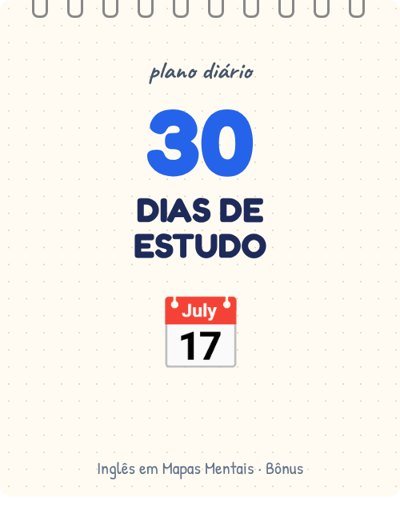
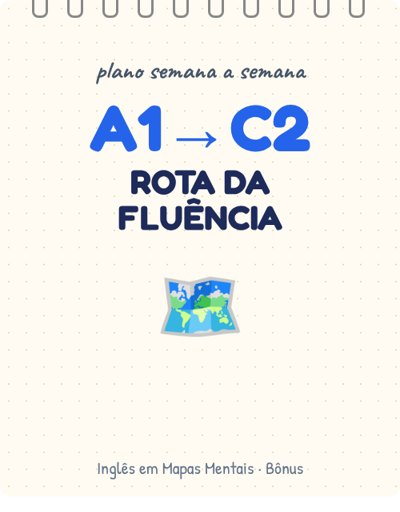
Atualiza para 310 mapas (A1–C2): novas imagens, níveis, bônus e textos
Claude-Session: https://claude.ai/code/session_01UXpBtZZCWjNV9Yxm8GNDxu

Changed region(s): [[0.21, 0.1875, 0.78, 0.7188], [0.24, 0.125, 0.78, 0.1562]]

diff --git a/index.html b/index.html
@@ -3,9 +3,9 @@
 <head>
 <meta charset="utf-8">
 <meta name="viewport" content="width=device-width, initial-scale=1">
-<title>Inglês em Mapas Mentais · 30 Mapas Mentais Imprimíveis</title>
-<meta name="description" content="30 mapas mentais de inglês em PDF, com a gramática explicada em português. Imprima ou estude no celular. Acesso imediato.">
-<meta property="og:title" content="Inglês em Mapas Mentais · 30 Mapas Imprimíveis">
+<title>Inglês em Mapas Mentais · +300 Mapas Mentais do A1 ao C2</title>
+<meta name="description" content="310 mapas mentais de inglês em PDF, do A1 ao C2, com a gramática explicada em português. Imprima ou estude no celular. Acesso imediato.">
+<meta property="og:title" content="Inglês em Mapas Mentais · +300 Mapas do A1 ao C2">
 <meta property="og:description" content="Aprenda e revise inglês de forma visual. PDF com acesso imediato.">
 <link rel="preconnect" href="https://fonts.googleapis.com"><link rel="preconnect" href="https://fonts.gstatic.com" crossorigin>
 <link href="https://fonts.googleapis.com/css2?family=Inter:wght@400;500;600&family=Poppins:wght@600;700;800&display=swap" rel="stylesheet">
@@ -147,8 +147,8 @@ svg.map{display:block;width:100%;height:auto;background:#fff}
 <header class="hero">
 <div class="wrap">
 <span class="chip">📄 Material digital em PDF · Acesso imediato</span>
-<h1>30 Mapas Mentais para <span>Aprender e Revisar Inglês</span></h1>
-<p>Gramática, vocabulário e situações reais explicados em português, cada tema numa página. Estude no celular, no tablet ou impresso.</p>
+<h1>+300 Mapas Mentais para <span>Aprender e Revisar Inglês</span></h1>
+<p>310 mapas em 6 níveis, do A1 ao C2: gramática, vocabulário e situações reais explicados em português, cada tema numa página. Estude no celular, no tablet ou impresso.</p>
 <a class="btn" href="#planos">Quero Garantir Agora</a>
 <div class="safe">🔒 Compra 100% segura · 7 dias de garantia</div>
 <img class="shot" src="img/hero.jpg" alt="Kit Inglês em Mapas Mentais no computador, tablet, celular e impresso" width="1600" height="1000">
@@ -162,22 +162,30 @@ svg.map{display:block;width:100%;height:auto;background:#fff}
 <p class="hint">🔍 Clique em qualquer mapa para ampliar em tela cheia</p>
 </div>
 <div class="marquee"><div class="track">
-<img src="img/mapa-01-verbo-to-be.jpg" alt="Mapa 1" loading="lazy" width="1200" height="848">
-<img src="img/mapa-04-simple-present.jpg" alt="Mapa 4" loading="lazy" width="1200" height="848">
-<img src="img/mapa-07-verbos-irregulares.jpg" alt="Mapa 7" loading="lazy" width="1200" height="848">
-<img src="img/mapa-10-present-perfect.jpg" alt="Mapa 10" loading="lazy" width="1200" height="848">
-<img src="img/mapa-15-comparativo.jpg" alt="Mapa 15" loading="lazy" width="1200" height="848">
-<img src="img/mapa-22-restaurante.jpg" alt="Mapa 22" loading="lazy" width="1200" height="848">
-<img src="img/mapa-23-viagem.jpg" alt="Mapa 23" loading="lazy" width="1200" height="848">
-<img src="img/mapa-25-phrasal-verbs.jpg" alt="Mapa 25" loading="lazy" width="1200" height="848">
-<img src="img/mapa-01-verbo-to-be.jpg" alt="Mapa 1" loading="lazy" aria-hidden="true" width="1200" height="848">
-<img src="img/mapa-04-simple-present.jpg" alt="Mapa 4" loading="lazy" aria-hidden="true" width="1200" height="848">
-<img src="img/mapa-07-verbos-irregulares.jpg" alt="Mapa 7" loading="lazy" aria-hidden="true" width="1200" height="848">
-<img src="img/mapa-10-present-perfect.jpg" alt="Mapa 10" loading="lazy" aria-hidden="true" width="1200" height="848">
-<img src="img/mapa-15-comparativo.jpg" alt="Mapa 15" loading="lazy" aria-hidden="true" width="1200" height="848">
-<img src="img/mapa-22-restaurante.jpg" alt="Mapa 22" loading="lazy" aria-hidden="true" width="1200" height="848">
-<img src="img/mapa-23-viagem.jpg" alt="Mapa 23" loading="lazy" aria-hidden="true" width="1200" height="848">
-<img src="img/mapa-25-phrasal-verbs.jpg" alt="Mapa 25" loading="lazy" aria-hidden="true" width="1200" height="848">
+<img src="img/mapa-001-verbo-to-be.jpg" alt="Mapa 1 · Verbo To Be (A1)" loading="lazy" width="1200" height="848">
+<img src="img/mapa-014-cores.jpg" alt="Mapa 14 · Cores (A1)" loading="lazy" width="1200" height="848">
+<img src="img/mapa-053-simple-past.jpg" alt="Mapa 53 · Simple Past (A2)" loading="lazy" width="1200" height="848">
+<img src="img/mapa-081-na-farmcia.jpg" alt="Mapa 81 · Na Farmácia (A2)" loading="lazy" width="1200" height="848">
+<img src="img/mapa-116-present-perfect-x-simple-past.jpg" alt="Mapa 116 · Present Perfect x Simple Past (B1)" loading="lazy" width="1200" height="848">
+<img src="img/mapa-122-second-conditional.jpg" alt="Mapa 122 · Second Conditional (B1)" loading="lazy" width="1200" height="848">
+<img src="img/mapa-178-phrasal-verbs-com-out.jpg" alt="Mapa 178 · Phrasal Verbs com Out (B2)" loading="lazy" width="1200" height="848">
+<img src="img/mapa-181-idioms-com-o-corpo.jpg" alt="Mapa 181 · Idioms com o Corpo (B2)" loading="lazy" width="1200" height="848">
+<img src="img/mapa-216-inverso.jpg" alt="Mapa 216 · Inversão (C1)" loading="lazy" width="1200" height="848">
+<img src="img/mapa-236-negociao-avanada.jpg" alt="Mapa 236 · Negociação Avançada (C1)" loading="lazy" width="1200" height="848">
+<img src="img/mapa-275-retrica-clssica.jpg" alt="Mapa 275 · Retórica Clássica (C2)" loading="lazy" width="1200" height="848">
+<img src="img/mapa-266-humor-britnico-e-ironia.jpg" alt="Mapa 266 · Humor Britânico e Ironia (C2)" loading="lazy" width="1200" height="848">
+<img src="img/mapa-001-verbo-to-be.jpg" alt="Mapa 1 · Verbo To Be (A1)" loading="lazy" aria-hidden="true" width="1200" height="848">
+<img src="img/mapa-014-cores.jpg" alt="Mapa 14 · Cores (A1)" loading="lazy" aria-hidden="true" width="1200" height="848">
+<img src="img/mapa-053-simple-past.jpg" alt="Mapa 53 · Simple Past (A2)" loading="lazy" aria-hidden="true" width="1200" height="848">
+<img src="img/mapa-081-na-farmcia.jpg" alt="Mapa 81 · Na Farmácia (A2)" loading="lazy" aria-hidden="true" width="1200" height="848">
+<img src="img/mapa-116-present-perfect-x-simple-past.jpg" alt="Mapa 116 · Present Perfect x Simple Past (B1)" loading="lazy" aria-hidden="true" width="1200" height="848">
+<img src="img/mapa-122-second-conditional.jpg" alt="Mapa 122 · Second Conditional (B1)" loading="lazy" aria-hidden="true" width="1200" height="848">
+<img src="img/mapa-178-phrasal-verbs-com-out.jpg" alt="Mapa 178 · Phrasal Verbs com Out (B2)" loading="lazy" aria-hidden="true" width="1200" height="848">
+<img src="img/mapa-181-idioms-com-o-corpo.jpg" alt="Mapa 181 · Idioms com o Corpo (B2)" loading="lazy" aria-hidden="true" width="1200" height="848">
+<img src="img/mapa-216-inverso.jpg" alt="Mapa 216 · Inversão (C1)" loading="lazy" aria-hidden="true" width="1200" height="848">
+<img src="img/mapa-236-negociao-avanada.jpg" alt="Mapa 236 · Negociação Avançada (C1)" loading="lazy" aria-hidden="true" width="1200" height="848">
+<img src="img/mapa-275-retrica-clssica.jpg" alt="Mapa 275 · Retórica Clássica (C2)" loading="lazy" aria-hidden="true" width="1200" height="848">
+<img src="img/mapa-266-humor-britnico-e-ironia.jpg" alt="Mapa 266 · Humor Britânico e Ironia (C2)" loading="lazy" aria-hidden="true" width="1200" height="848">
 </div></div>
 <div class="wrap">
 <div class="cta-wrap"><a class="btn" href="#planos">Quero Garantir Agora</a></div>
@@ -197,23 +205,29 @@ svg.map{display:block;width:100%;height:auto;background:#fff}
 <div class="wrap">
 <span class="eyebrow">Organização do kit</span>
 <h2>Estrutura simples, na ordem certa</h2>
-<p class="lead">30 mapas organizados em 4 módulos práticos para você saber exatamente o que estudar, no seu ritmo.</p>
+<p class="lead">310 mapas organizados em 6 níveis (A1 a C2) para você saber exatamente o que estudar, no seu ritmo.</p>
 <div class="levels">
-<div class="lv"><div class="hd"><span class="badge">1</span><div><div class="cnt">🌱 8 MAPAS</div><h3>Fundação do Inglês</h3></div></div>
+<div class="lv"><div class="hd"><span class="badge">A1</span><div><div class="cnt">🌱 50 MAPAS</div><h3>Fundação</h3></div></div>
 <p>Para quem está começando do zero e quer destravar a base.</p>
-<ul><li>Verbo To Be, pronomes e artigos</li><li>There is / there are e palavras de pergunta</li><li>Números, datas e horas</li><li>Vocabulário de família e da casa</li></ul></div>
-<div class="lv"><div class="hd"><span class="badge">2</span><div><div class="cnt">🧱 8 MAPAS</div><h3>Tempos Verbais</h3></div></div>
-<p>Fale do presente, do passado e do futuro sem confusão.</p>
-<ul><li>Simple Present e Present Continuous</li><li>Simple Past e os 24 verbos irregulares mais usados</li><li>Futuro com will e going to</li><li>Present Perfect sem medo</li></ul></div>
-<div class="lv"><div class="hd"><span class="badge">3</span><div><div class="cnt">✈ 8 MAPAS</div><h3>Construção de Frases</h3></div></div>
-<p>Monte frases mais completas e naturais.</p>
-<ul><li>Verbos modais: can, should, must, would</li><li>Preposições de lugar e de tempo</li><li>Comparativos, contáveis e incontáveis</li><li>Conectivos e pronúncia do -ed e do -s</li></ul></div>
-<div class="lv"><div class="hd"><span class="badge">4</span><div><div class="cnt">💼 6 MAPAS</div><h3>Inglês na Vida Real</h3></div></div>
-<p>Use o inglês em situações do dia a dia, em viagens e no trabalho.</p>
-<ul><li>Restaurante, viagem e aeroporto</li><li>Trabalho e entrevista de emprego</li><li>Phrasal verbs essenciais e falsos cognatos</li><li>Conversa do dia a dia (small talk)</li></ul></div>
+<ul><li>Verbo To Be, pronomes e artigos</li><li>Números, datas, horas e cores</li><li>Família, casa, comida e roupas</li><li>Perguntas básicas e apresentações</li></ul></div>
+<div class="lv"><div class="hd"><span class="badge">A2</span><div><div class="cnt">🧱 55 MAPAS</div><h3>Construção e Rotina</h3></div></div>
+<p>Fale da sua rotina, do passado e dos seus planos.</p>
+<ul><li>Simple Present, Past e Continuous</li><li>Futuro com will e going to</li><li>Farmácia, mercado, transporte e hotel</li><li>Preposições, quantificadores e Have To</li></ul></div>
+<div class="lv"><div class="hd"><span class="badge">B1</span><div><div class="cnt">✈ 55 MAPAS</div><h3>Independência</h3></div></div>
+<p>Viaje, trabalhe e converse com mais segurança.</p>
+<ul><li>Present Perfect x Simple Past</li><li>First e Second Conditional</li><li>Voz passiva e discurso indireto</li><li>Entrevista de emprego e viagens</li></ul></div>
+<div class="lv"><div class="hd"><span class="badge">B2</span><div><div class="cnt">💬 55 MAPAS</div><h3>Fluência Natural</h3></div></div>
+<p>Soe natural, com as expressões que nativos usam.</p>
+<ul><li>Phrasal verbs por partícula</li><li>Idioms e collocations</li><li>Third e mixed conditionals</li><li>Argumentar, debater e e-mails formais</li></ul></div>
+<div class="lv"><div class="hd"><span class="badge">C1</span><div><div class="cnt">🎯 50 MAPAS</div><h3>Inglês Avançado</h3></div></div>
+<p>Refine a gramática e o vocabulário profissional.</p>
+<ul><li>Inversão e frases clivadas</li><li>Negociação e apresentações</li><li>Hedging e linguagem acadêmica</li><li>Nuances de sinônimos</li></ul></div>
+<div class="lv"><div class="hd"><span class="badge">C2</span><div><div class="cnt">🏆 45 MAPAS</div><h3>Domínio Total</h3></div></div>
+<p>Detalhes que separam o avançado do quase nativo.</p>
+<ul><li>Humor britânico e ironia</li><li>Retórica clássica e estilo</li><li>Registro literário e mudança de registro</li><li>Metáforas, eufemismos e provérbios</li></ul></div>
 </div>
 <div class="feats">
-<div class="feat"><span class="ic">📚</span>30 Mapas Mentais</div>
+<div class="feat"><span class="ic">📚</span>+300 Mapas Mentais</div>
 <div class="feat"><span class="ic">🖨</span>Prontos para Imprimir (PDF)</div>
 <div class="feat"><span class="ic">📱</span>Celular, Tablet e PC</div>
 <div class="feat"><span class="ic">♾</span>Seu para sempre</div>
@@ -241,7 +255,7 @@ svg.map{display:block;width:100%;height:auto;background:#fff}
 <p class="lead">Incluídos no Kit Completo, sem custo adicional.</p>
 <div class="bon">
 <div class="bcard"><div class="top">BÔNUS #1</div><div class="in"><img src="img/bonus-b1.jpg" alt="Bônus 1: 350 palavras essenciais" loading="lazy"><div><h3>📖 As 350 Palavras Essenciais</h3><p>As palavras mais usadas no inglês do dia a dia, com tradução e em ordem de prioridade.</p><span class="inc">INCLUSO NO KIT COMPLETO</span></div></div></div>
-<div class="bcard"><div class="top">BÔNUS #2</div><div class="in"><img src="img/bonus-b2.jpg" alt="Bônus 2: plano de 30 dias" loading="lazy"><div><h3>📅 Plano de Estudo de 30 Dias</h3><p>Saiba exatamente qual mapa estudar em cada dia, com revisões, em 15 a 20 minutos.</p><span class="inc">INCLUSO NO KIT COMPLETO</span></div></div></div>
+<div class="bcard"><div class="top">BÔNUS #2</div><div class="in"><img src="img/bonus-b2.jpg" alt="Bônus 2: Rota da Fluência" loading="lazy"><div><h3>🗺 Rota da Fluência</h3><p>Plano semana a semana do A1 ao C2: 2 mapas por dia, com revisões, em 15 a 20 minutos.</p><span class="inc">INCLUSO NO KIT COMPLETO</span></div></div></div>
 </div>
 <div class="cta-wrap"><a class="btn" href="#planos">Quero Garantir Agora</a></div>
 </div>
@@ -258,7 +272,7 @@ svg.map{display:block;width:100%;height:auto;background:#fff}
 <h3>Kit Completo</h3>
 <div class="pbox"><div class="pv"><small>R$</small>27,90</div><div class="pmeta">Pagamento único · Acesso imediato</div><span class="fmt">⚡ FORMATO 100% DIGITAL (PDF)</span></div>
 <div class="lab">TUDO DO KIT ESSENCIAL + OS 2 BÔNUS:</div>
-<ul><li><b>30 Mapas Mentais</b> de inglês imprimíveis</li><li><b>Bônus #1:</b> As 350 Palavras Essenciais</li><li><b>Bônus #2:</b> Plano de Estudo de 30 Dias</li></ul>
+<ul><li><b>310 Mapas Mentais</b> do A1 ao C2</li><li><b>Bônus #1:</b> As 350 Palavras Essenciais</li><li><b>Bônus #2:</b> Rota da Fluência (plano de estudo)</li></ul>
 <a class="btn block" href="#" data-checkout="completo">Quero o Kit Completo</a>
 <div class="safe">🛡 Garantia de 7 dias · Compra 100% segura</div>
 </div>
@@ -268,7 +282,7 @@ svg.map{display:block;width:100%;height:auto;background:#fff}
 <p class="desc">Para quem quer só os mapas mentais.</p>
 <div class="pbox"><div class="pv"><small>R$</small>17,90</div><div class="pmeta">Pagamento único · Acesso imediato</div><span class="fmt">⚡ FORMATO 100% DIGITAL (PDF)</span></div>
 <div class="lab">O QUE ESTÁ INCLUÍDO:</div>
-<ul><li><b>30 Mapas Mentais</b> de inglês em PDF imprimível</li><li>Acesso imediato por e-mail</li><li class="off">Bônus (inclusos apenas no Kit Completo)</li></ul>
+<ul><li><b>310 Mapas Mentais</b> do A1 ao C2 em PDF</li><li>Acesso imediato por e-mail</li><li class="off">Bônus (inclusos apenas no Kit Completo)</li></ul>
 <a class="btn dark block" href="#" id="btnEssencial">Quero o Kit Essencial</a>
 <div class="safe">🛡 Garantia de 7 dias</div>
 </div>
@@ -304,14 +318,15 @@ svg.map{display:block;width:100%;height:auto;background:#fff}
 <h2>Perguntas Frequentes</h2>
 <p class="lead">Tire as suas dúvidas sobre o kit.</p>
 <div class="faq">
-<details><summary>Preciso saber inglês para começar?</summary><p>Não. Os mapas começam do básico e todas as explicações estão em português.</p></details>
+<details><summary>Preciso saber inglês para começar?</summary><p>Não. Os mapas começam do zero (nível A1) e todas as explicações estão em português.</p></details>
 <details><summary>O material é físico?</summary><p>Não. O produto é 100% digital, em PDF. Você pode imprimir os mapas se quiser.</p></details>
 <details><summary>Posso estudar pelo celular?</summary><p>Sim. Os PDFs abrem no celular, no tablet e no computador.</p></details>
+<details><summary>Os mapas são separados por nível?</summary><p>Sim. São 6 PDFs, um por nível: A1 (50), A2 (55), B1 (55), B2 (55), C1 (50) e C2 (45), com índice no início de cada um.</p></details>
 <details><summary>Posso imprimir os mapas?</summary><p>Sim. Cada mapa ocupa uma folha A4 deitada e pode ser impresso para uso pessoal.</p></details>
 <details><summary>Como recebo o acesso?</summary><p>Depois da confirmação do pagamento, você recebe no e-mail da compra o link para baixar o material.</p></details>
 <details><summary>O pagamento é mensal?</summary><p>Não. Você paga uma única vez.</p></details>
 <details><summary>Os bônus estão incluídos?</summary><p>Os 2 bônus estão incluídos no Kit Completo e chegam junto com os mapas. O Kit Essencial traz só os mapas.</p></details>
-<details><summary>Quanto tempo preciso estudar por dia?</summary><p>Você estuda no seu ritmo. O plano de 30 dias sugere de 15 a 20 minutos por dia.</p></details>
+<details><summary>Quanto tempo preciso estudar por dia?</summary><p>Você estuda no seu ritmo. A Rota da Fluência sugere 2 mapas por dia, de 15 a 20 minutos.</p></details>
 <details><summary>O material substitui um curso de inglês?</summary><p>Não. É um material de apoio para aprender e revisar. Não promete fluência: funciona melhor junto com prática, leitura e conversação.</p></details>
 <details><summary>Tenho garantia?</summary><p>Sim. Você tem 7 dias após a compra para pedir o reembolso, se não ficar satisfeito.</p></details>
 </div>
@@ -322,13 +337,13 @@ svg.map{display:block;width:100%;height:auto;background:#fff}
 <div class="wrap">
 <span class="eyebrow" style="color:#7dd3fc">Aproveite a oferta</span>
 <h2>Garanta o seu acesso agora</h2>
-<p class="lead" style="color:#cbd5e1">Preço de lançamento por tempo limitado.</p>
+<p class="lead" style="color:#cbd5e1">Pagamento único, acesso para sempre.</p>
 <div class="fbox">
 <h3>Adquira o Kit Completo hoje</h3>
 <p style="color:var(--mut);margin:6px 0 20px">Aprenda inglês de forma simples, visual e direta ao ponto.</p>
 <a class="btn" href="#" data-checkout="completo">Quero Adquirir Agora</a>
 <div class="safe">🔒 Compra 100% segura. Seus dados estão protegidos.</div>
-<ul><li>30 Mapas Mentais Imprimíveis (do básico ao intermediário)</li><li>Bônus #1: As 350 Palavras Essenciais</li><li>Bônus #2: Plano de Estudo de 30 Dias</li><li>Garantia Incondicional de 7 Dias</li></ul>
+<ul><li>310 Mapas Mentais Imprimíveis em 6 níveis (A1 ao C2)</li><li>Bônus #1: As 350 Palavras Essenciais</li><li>Bônus #2: Rota da Fluência (plano de estudo)</li><li>Garantia Incondicional de 7 Dias</li></ul>
 </div>
 </div>
 </section>
@@ -338,14 +353,14 @@ Este site não é afiliado ao Facebook nem a qualquer entidade da Meta. A compra
 © 2026 · Todos os direitos reservados<br>
 <a href="#">Termos de Uso</a> · <a href="#">Política de Privacidade</a> · <a href="mailto:contato@seudominio.com">Contato</a>
 </footer>
-<div class="sticky"><div><b style="color:var(--navy)">Kit Completo · R$ 27,90</b><div style="font-size:12px;color:var(--mut)">30 mapas + 2 bônus</div></div><a class="btn" href="#planos">Quero agora</a></div>
+<div class="sticky"><div><b style="color:var(--navy)">Kit Completo · R$ 27,90</b><div style="font-size:12px;color:var(--mut)">310 mapas + 2 bônus</div></div><a class="btn" href="#planos">Quero agora</a></div>
 <div class="ov" id="zoom"><div class="zbox"></div></div>
 <div class="ov" id="down">
 <div class="modal">
 <button class="x" aria-label="Fechar" id="downX">×</button>
 <div style="font-size:40px">🎁</div>
 <h3>Espere! Leve o Kit Completo por R$ 22,90</h3>
-<p>Por apenas R$ 5 a mais que o Essencial, você leva os 30 mapas <b>e</b> os 2 bônus: as 350 palavras essenciais e o plano de 30 dias.</p>
+<p>Por apenas R$ 5 a mais que o Essencial, você leva os 310 mapas <b>e</b> os 2 bônus: as 350 palavras essenciais e a Rota da Fluência.</p>
 <a class="btn block" href="#" data-checkout="downsell">Quero o Kit Completo por R$ 22,90</a>
 <a class="no" href="#" data-checkout="essencial">Não, quero só o Kit Essencial</a>
 </div>
